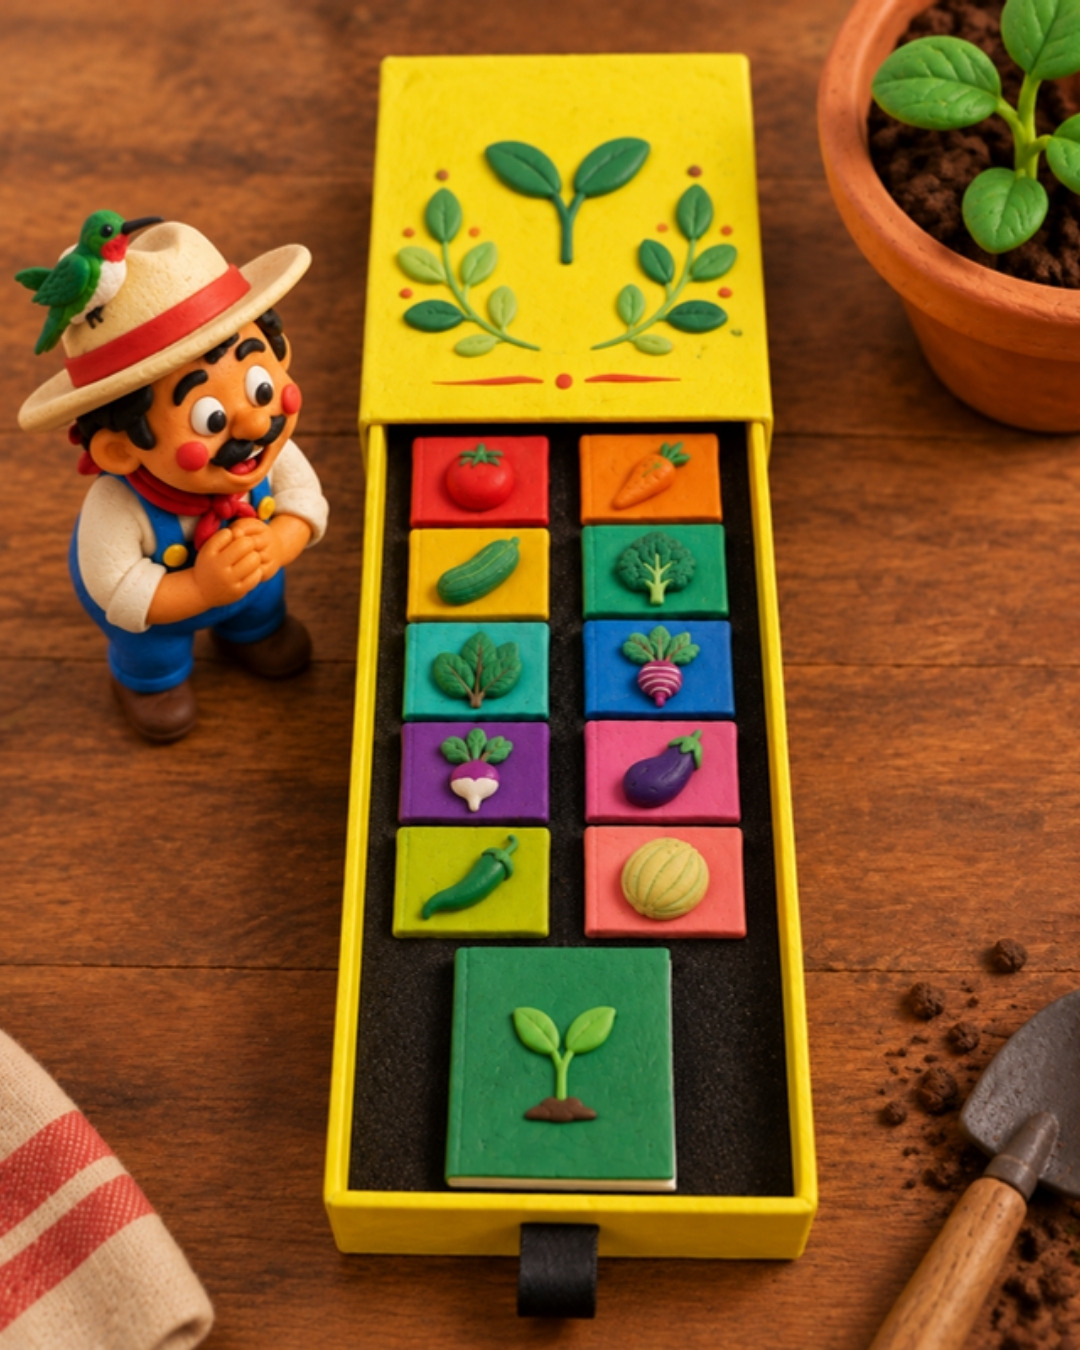
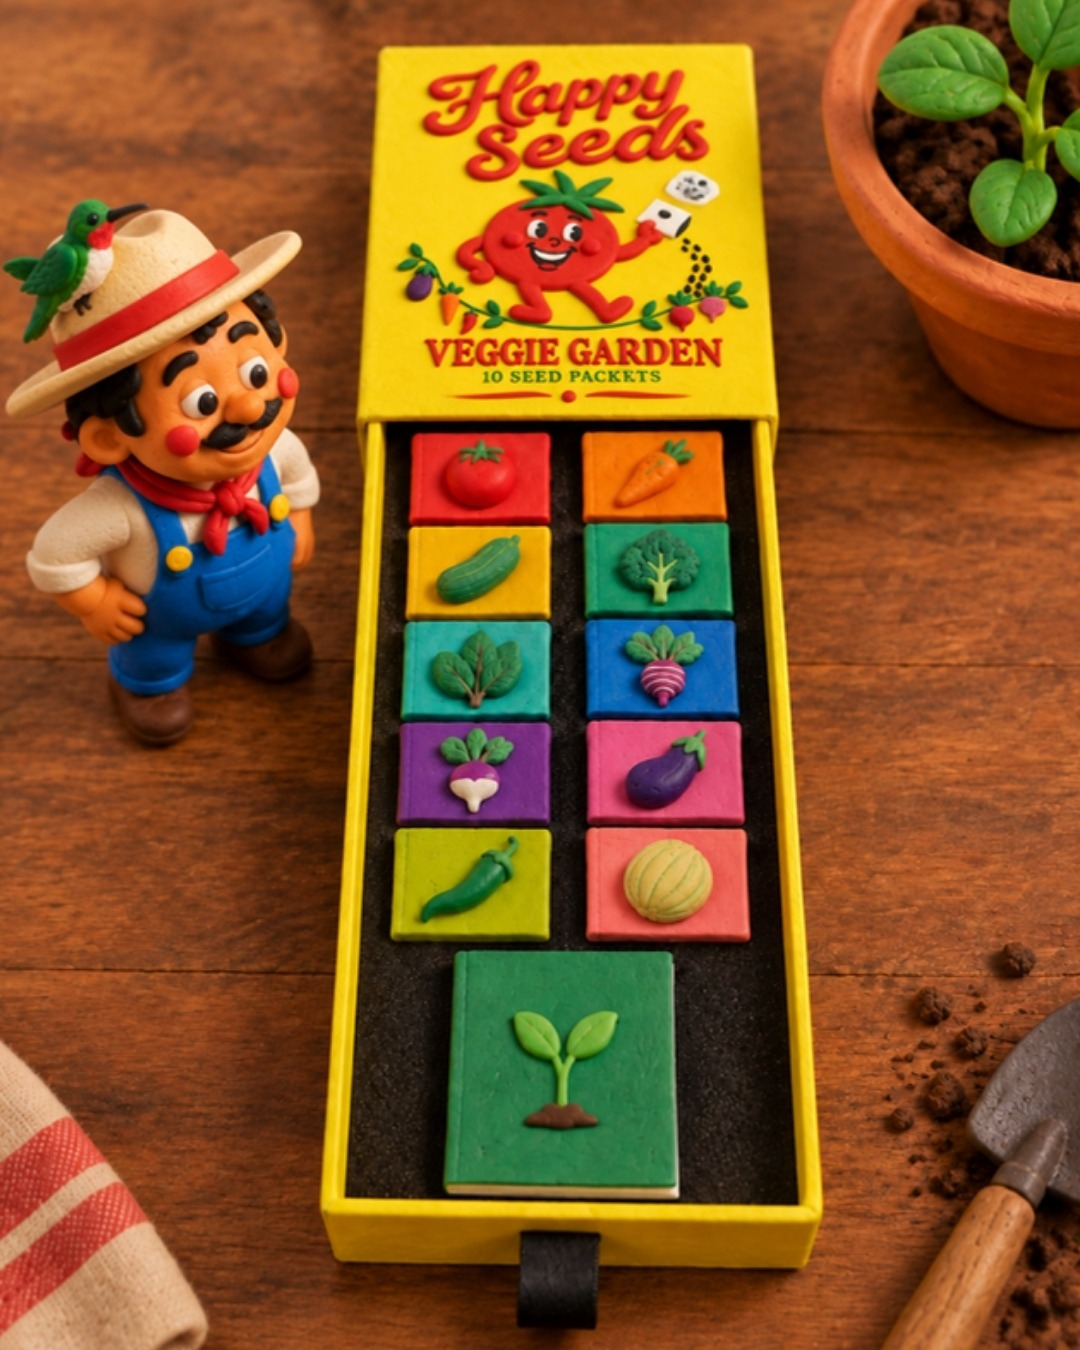
Open-box image: real Veggie Garden lid artwork, calmer Happy Farmer (Jared, Nov 2)
Claude-Session: https://claude.ai/code/session_01J2R4BD6HLiQv8B6i7zkBfA

diff --git a/media/brand/clay/README.md b/media/brand/clay/README.md
@@ -10,7 +10,7 @@ The clay farmer in scene-farmer-shelf.png, made from the Happy Seeds mascot logo
 Every creative, site image and email header is a stop-motion claymation scene with the Happy Farmer inside the world of the plants: small (10-20% of plant height), always tending or admiring (watering, sowing, patting, pulling, harvesting, cooking, eating), and ALWAYS with the small green red-throated hummingbird from the logo perched on his hat brim. Matte plasticine with thumb marks, never photoreal food. The box appears only when the idea is about the product. Site set lives in media/site/farmer/ (hero, herbs, sowing, gift, sprout-wide, email-banner), social statics in media/2026-11/statics/farmer-*.jpg, Canva designs DAHY1SD7IiY (statics) and DAHZvdUR5_Y (site/email). Every image is also archived in the hello@ Drive folder "Happy Seeds Farmer World Claymation Images" (17gHsmP3cSui1OFsnOXUOv-13Zl12jJmZ), titled by its description.
 
 ## The box (Jared, Nov 2 2026): always portrait
-When the box appears it is ALWAYS portrait oriented (standing tall, never landscape). The drawer slides out of a SHORT end, the black pull tab is centered on that short end (never on a long side), and the ten packets and the grow guide are displayed in portrait inside it. Packets are multi-colored like the real product, no readable words. Current open-box image: media/site/farmer/farmer-inside.jpg (Canva MAHZxhqXxE8, DAHZvdUR5_Y page 11).
+When the box appears it is ALWAYS portrait oriented (standing tall, never landscape). The drawer slides out of a SHORT end, the black pull tab is centered on that short end (never on a long side), and the ten packets and the grow guide are displayed in portrait inside it. Packets are multi-colored like the real product, no readable words. Current open-box image: media/site/farmer/farmer-inside.jpg (Canva MAHZ05PqqfM, DAHZvdUR5_Y page 11; lid carries the real Veggie Garden front artwork, farmer calm and smiling, Jared Nov 2).
 
 ## Box lettering (Jared, Nov 2 2026): the logo is never messed up
 Generators invent lettering on any box face they cannot copy. Rule: the box is shown square to the camera so only the FRONT face (the real Happy Seeds artwork, from reference MAHY1RbhAIs / MAHX10pD-6o) is visible; any sliver of side or top is plain yellow with no letters, words or marks. Any garbled, mirrored or invented text anywhere on the box, packets or guide fails review. Current wholesale image: media/site/farmer/farmer-wholesale.jpg (Canva MAHZyH8ei6c, DAHZvdUR5_Y page 8) replaced MAHZxX2Hgqw, which had scrambled text on the box side.
